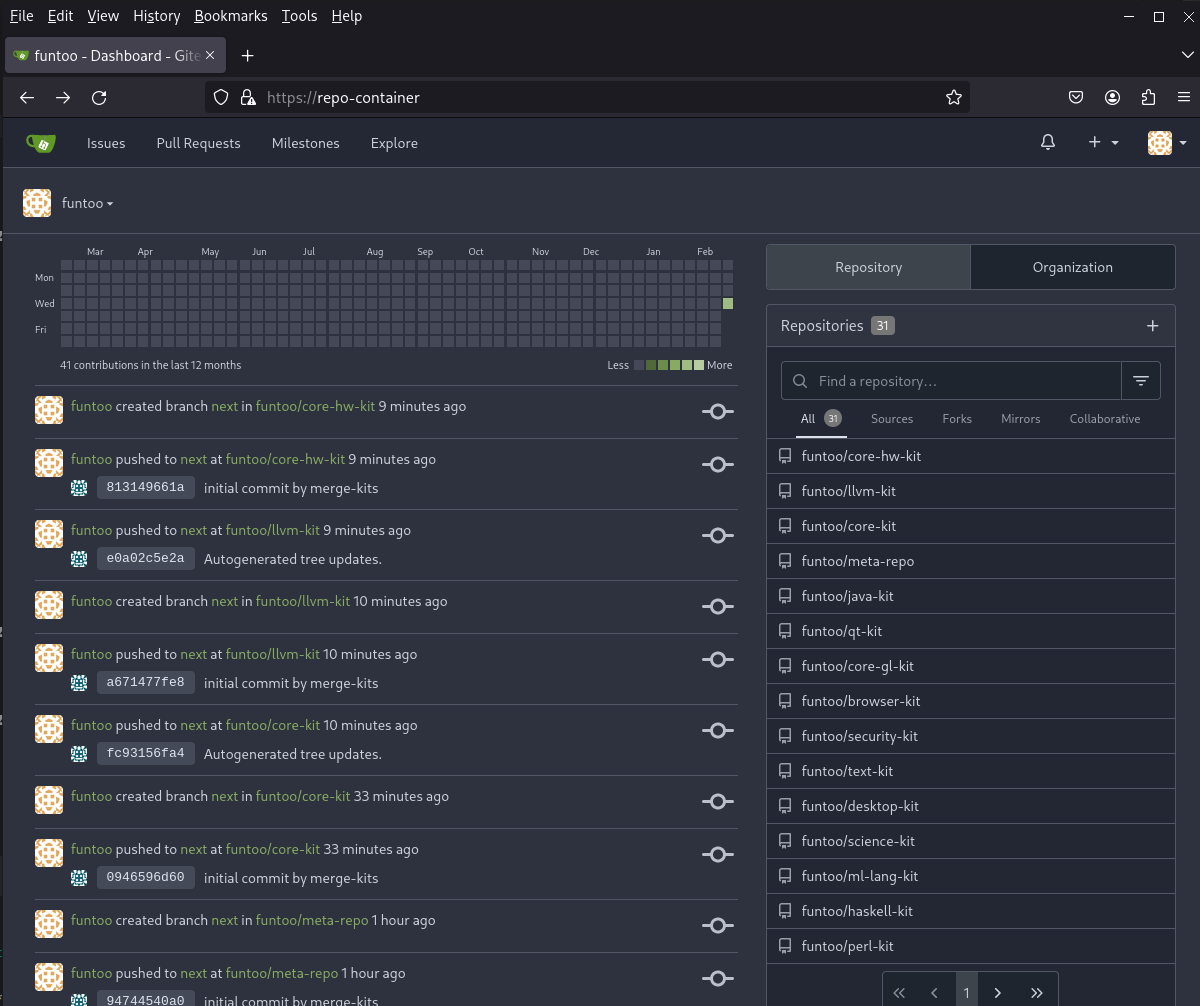
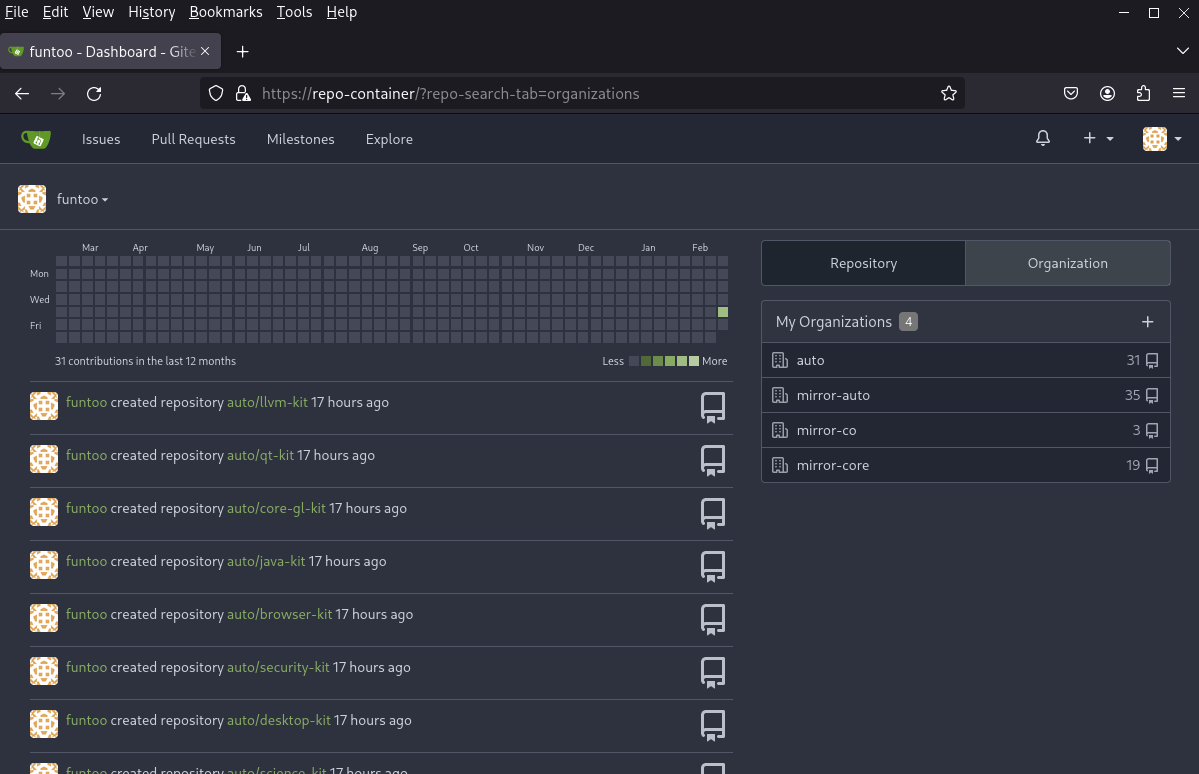
repo with funtoo mirrors now

diff --git a/README.md b/README.md
@@ -7,6 +7,7 @@ With this setup you will be able
 - to create your own locally built Funtoo Linux tar images with the power of [Funtoo Metro Project](https://www.funtoo.org/Funtoo:Metro)
 - to create your own local Funtoo Linux meta repo with the power of [Funtoo Metatools Project](https://www.funtoo.org/Funtoo:Metatools)
 - to serve your own local Funtoo Linux meta repo to your Funtoo Linux based installations with the power of [Gitea](https://about.gitea.com/)
+- to have a local mirror of [official Funtoo Linux code repos](https://code.funtoo.org/)
 
 # Requirements
 - Ansible available on your controller host 
@@ -32,7 +33,7 @@ These credentials are needed due to anonymous access rate limiting on github.com
 ```
 ansible-playbook -i production site.yml
 ```
-**Achtung!** The playbook generates a password for gitea application user and prints it out. WWatch it out as you will need it for log in the gitea application running on the lxd repo-container.    
+**Achtung!** The playbook generates a password for gitea application user and prints it out. Watch it out as you will need it for log in the gitea application running on the lxd repo-container.    
 ![gitea-password.png](.img/gitea-password.png)
 
 # How to use the result setup
@@ -155,6 +156,6 @@ Gitea runs in the third created lxd container `repo-container`. Please use the u
 
 ![gitea-repos.png](.img/gitea-repos.png)
 
-After a `successful` tree regeneration round you can use the `https://repo-containser/funtoo/{repo}` as `sync_base_url` in other Funtoo Linux installations.
+After a `successful` tree regeneration round you can use the `https://repo-containser/auto/{repo}` as `sync_base_url` in other Funtoo Linux installations.
 
-![snc-url.png](.img/sync-url.png)
+![sync-url.png](.img/sync-url.png)
